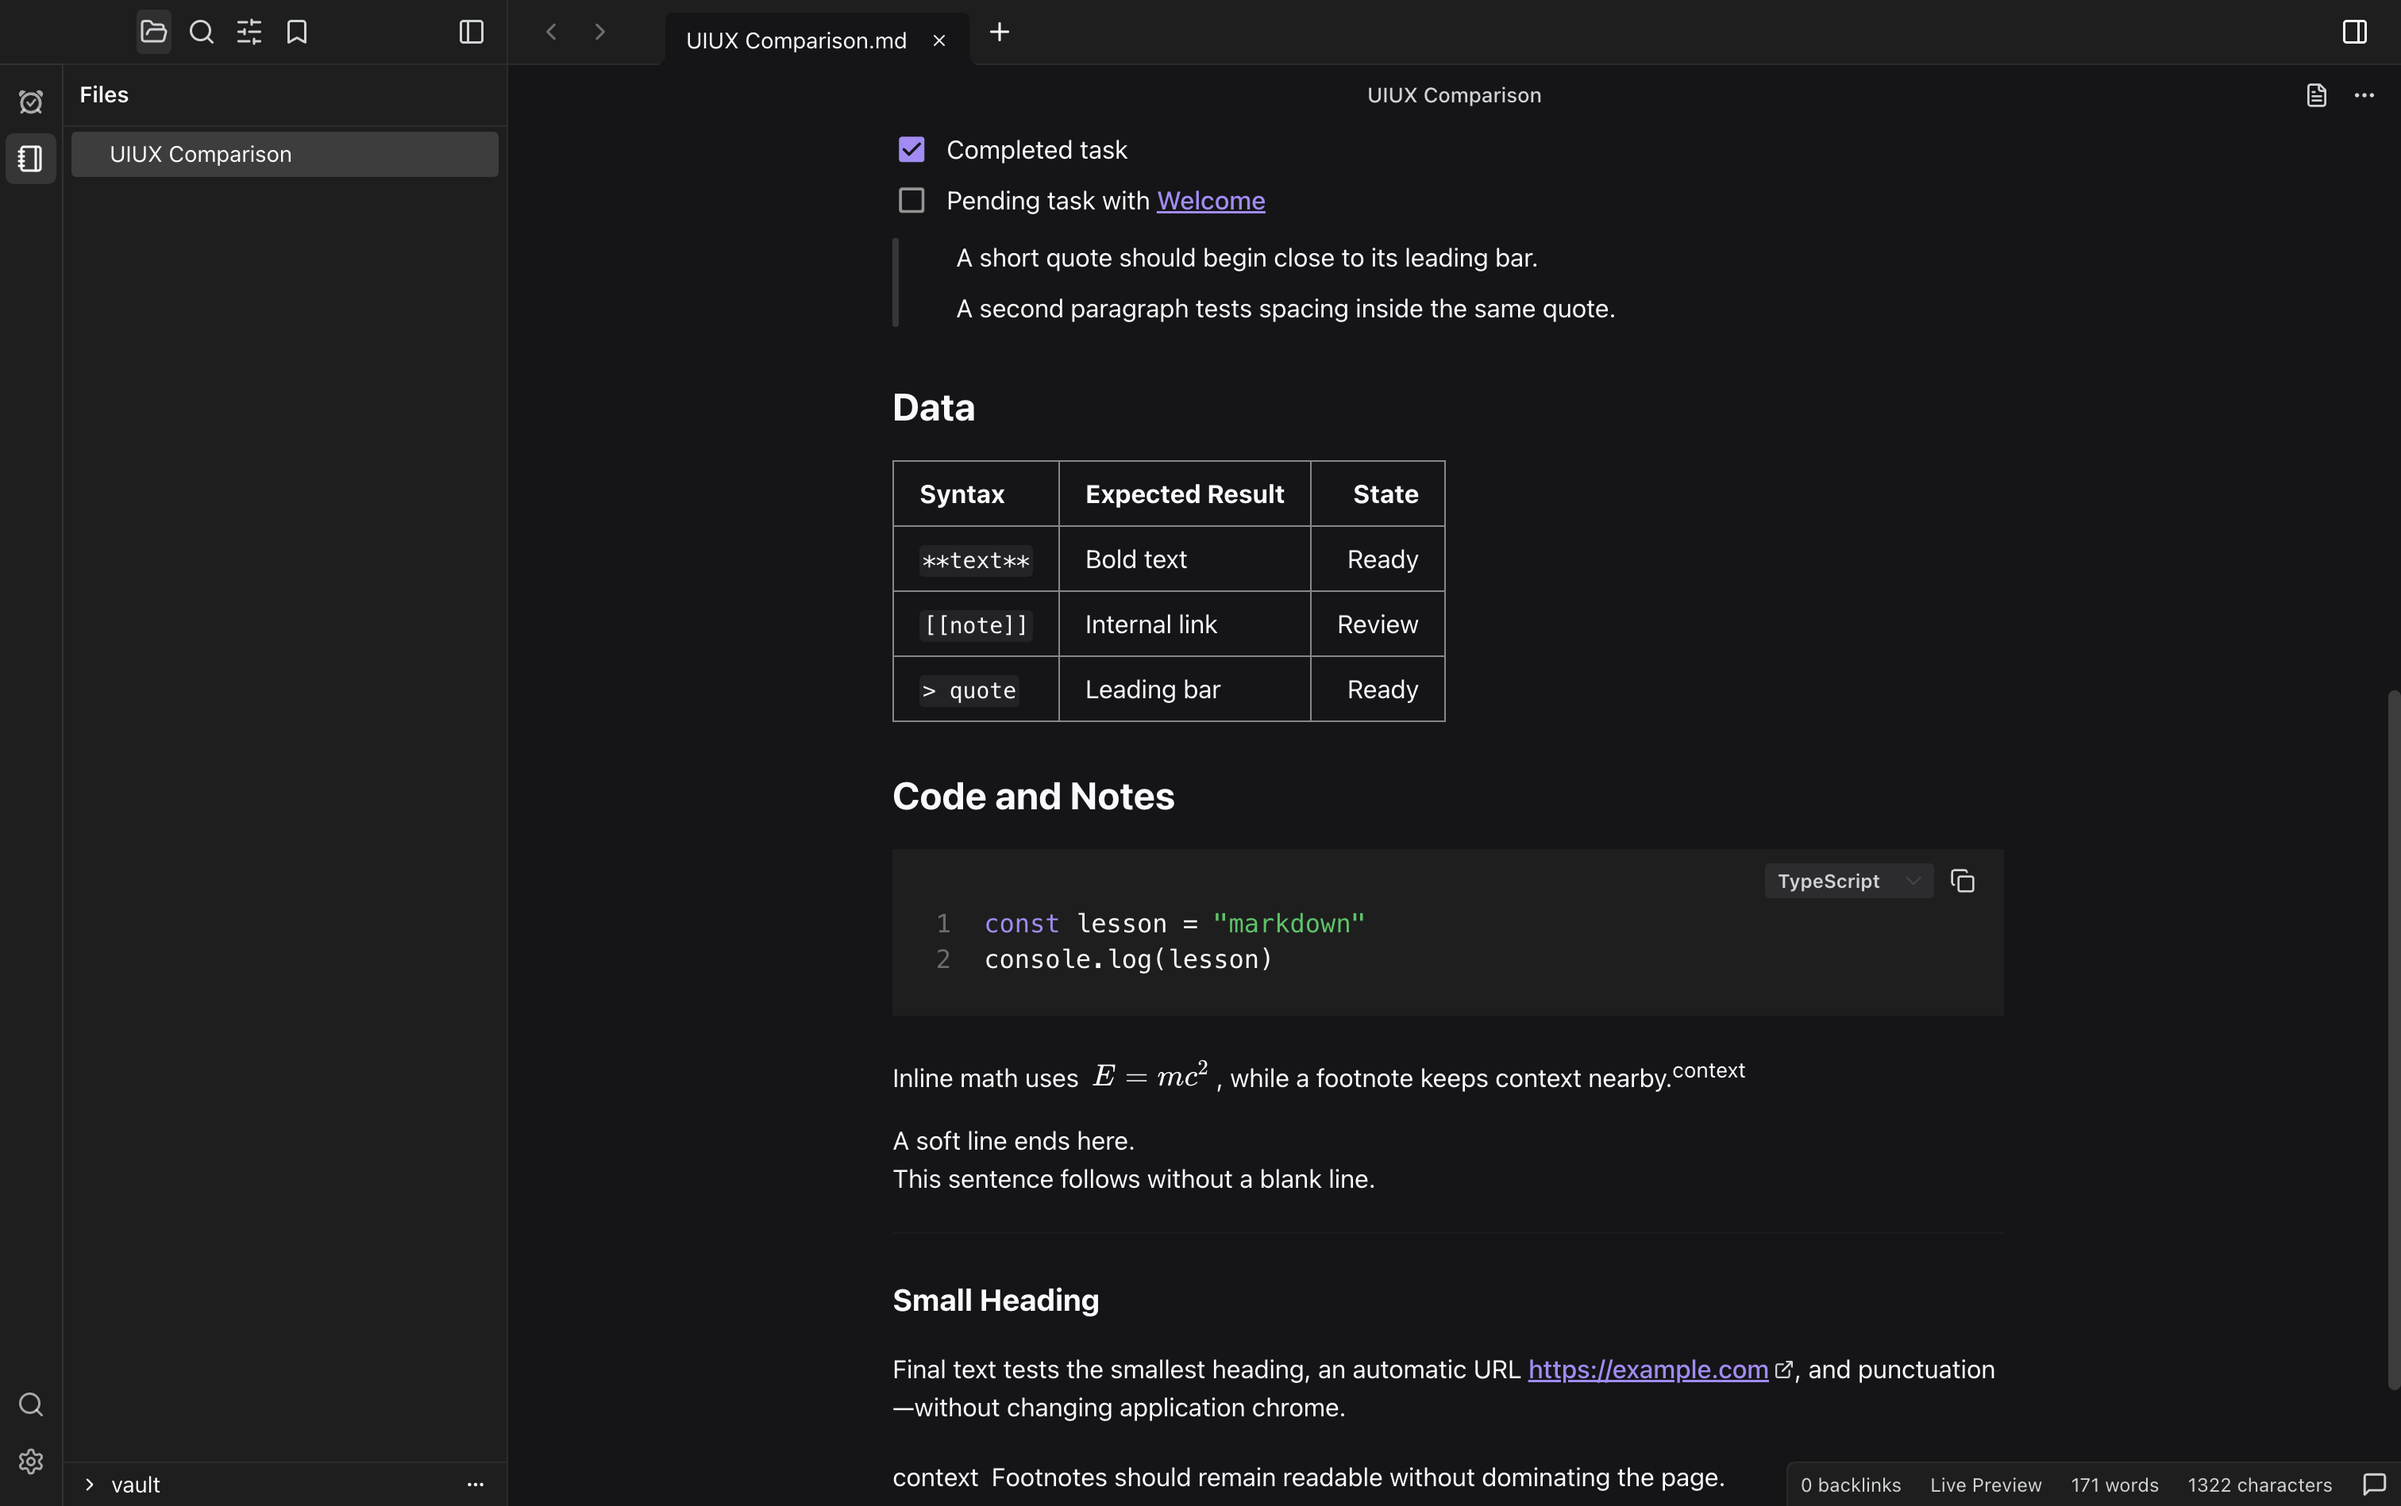
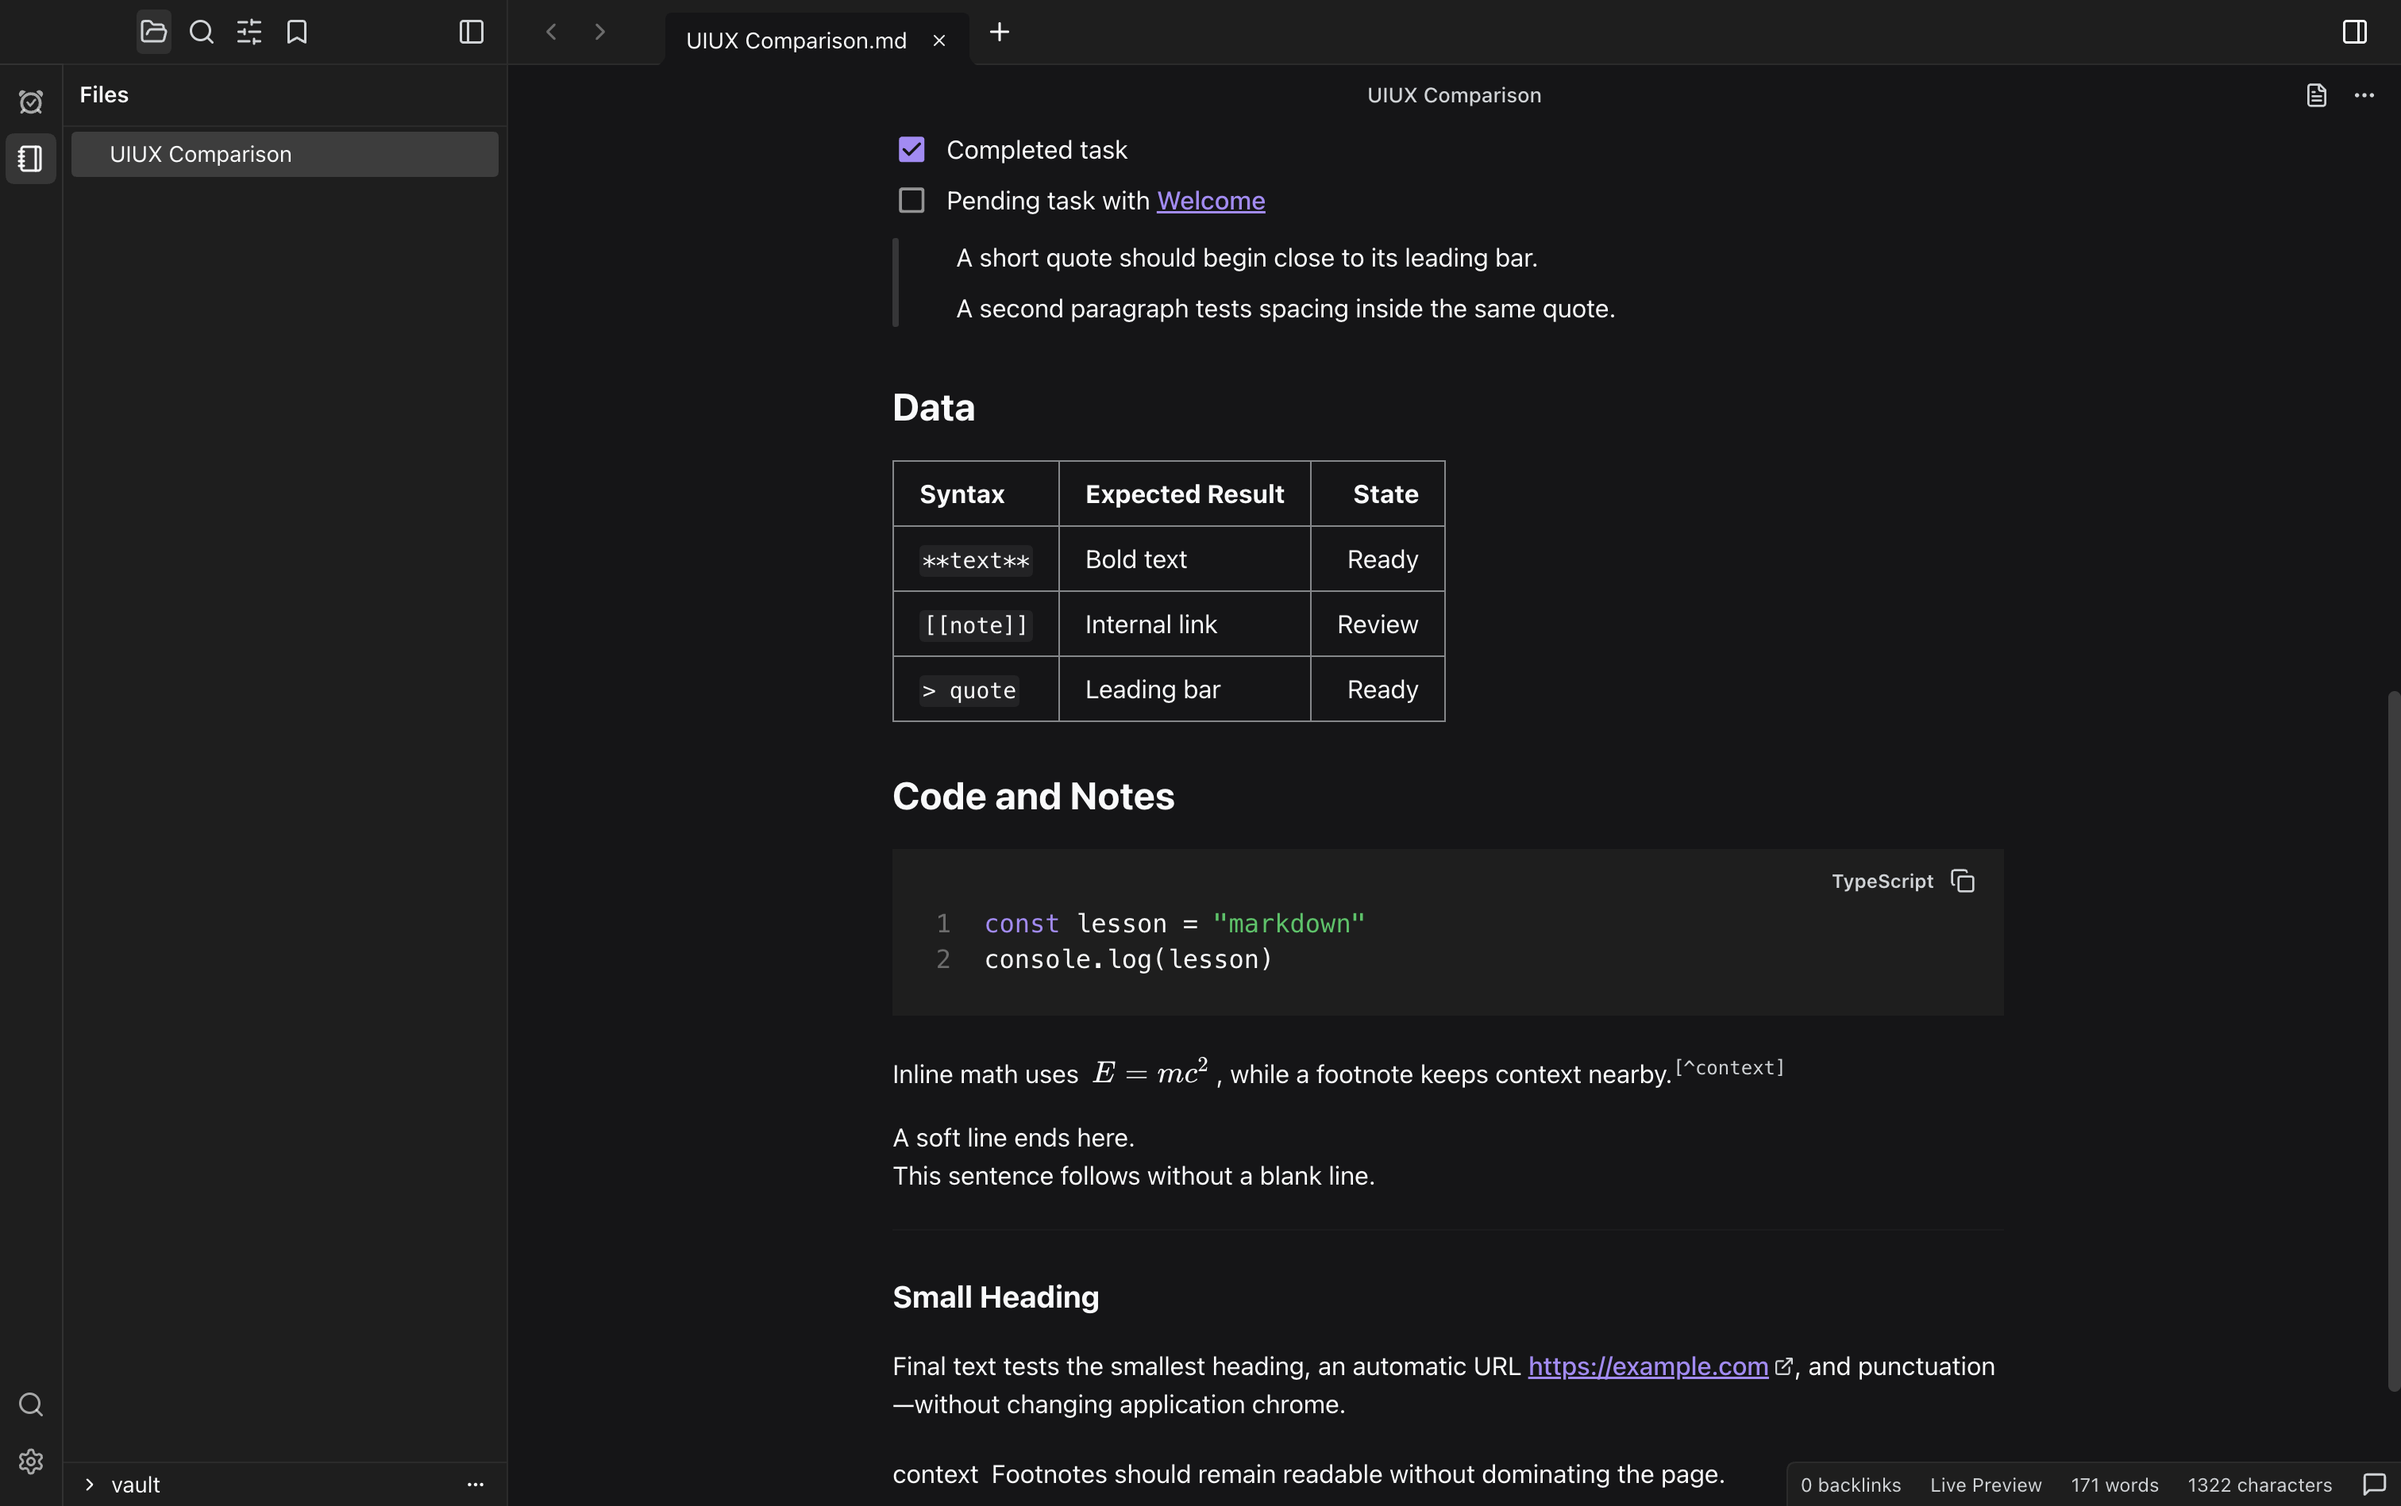
docs(tocktutor): retake Live Preview language and footnote comparison

diff --git a/.agents/uiux/tocktutor/content-alignment.md b/.agents/uiux/tocktutor/content-alignment.md
@@ -1,5 +1,9 @@
 # TockTutor and Obsidian Content Alignment
 
+## Display-Only Language and Bracketed Footnote Reference — 2026-09-25
+
+Retook only `tocktutor-live-preview-lower.png` from guarded Desktop at `9f89f1e4`. The 1512 × 949 CSS-pixel, 2× dark/no-skin Live Preview retains the authored `ts` fence and syntax colors while displaying “TypeScript” without a dropdown; Copy remains separate. The inline footnote now visibly reads `[^context]` in muted 12px type like the Obsidian reference, while the definition remains intact. The shared comparison note SHA-256 is unchanged. Data, Code and Notes, and Small Heading are visible at scrollTop 700. Capture-time console/page errors were empty; the app tree stopped with no descendants. All 62 other screenshots, including 29 Obsidian references, retained their hashes. Detailed route, geometry, mode, styling, checksums and cleanup are in `content-alignment.json`.
+
 ## Full Language, Spacing, and Footnote Retake — 2026-09-25
 
 Retook only `tocktutor-live-preview-lower.png` from the source-built Desktop at `e807b5a8`. The built-in dark/no-skin Live Preview at 1512 × 949 CSS pixels and 2× (3024 × 1898 pixels) shows “TypeScript” without changing the authored `ts` fence, separate visible Copy control, new heading/code spacing, and “context” inline before its footnote definition. Verified the Data, Code and Notes, and Small Heading sections at scrollTop 700; the fixture note and canonical comparison note retain the same SHA-256. The guarded app process tree stopped with no descendants. Capture-time console/page errors were empty; all 62 other images, including 29 Obsidian references, retain their hashes. Detailed geometry, styles, route, mode, hashes, and cleanup are in `content-alignment.json`.
